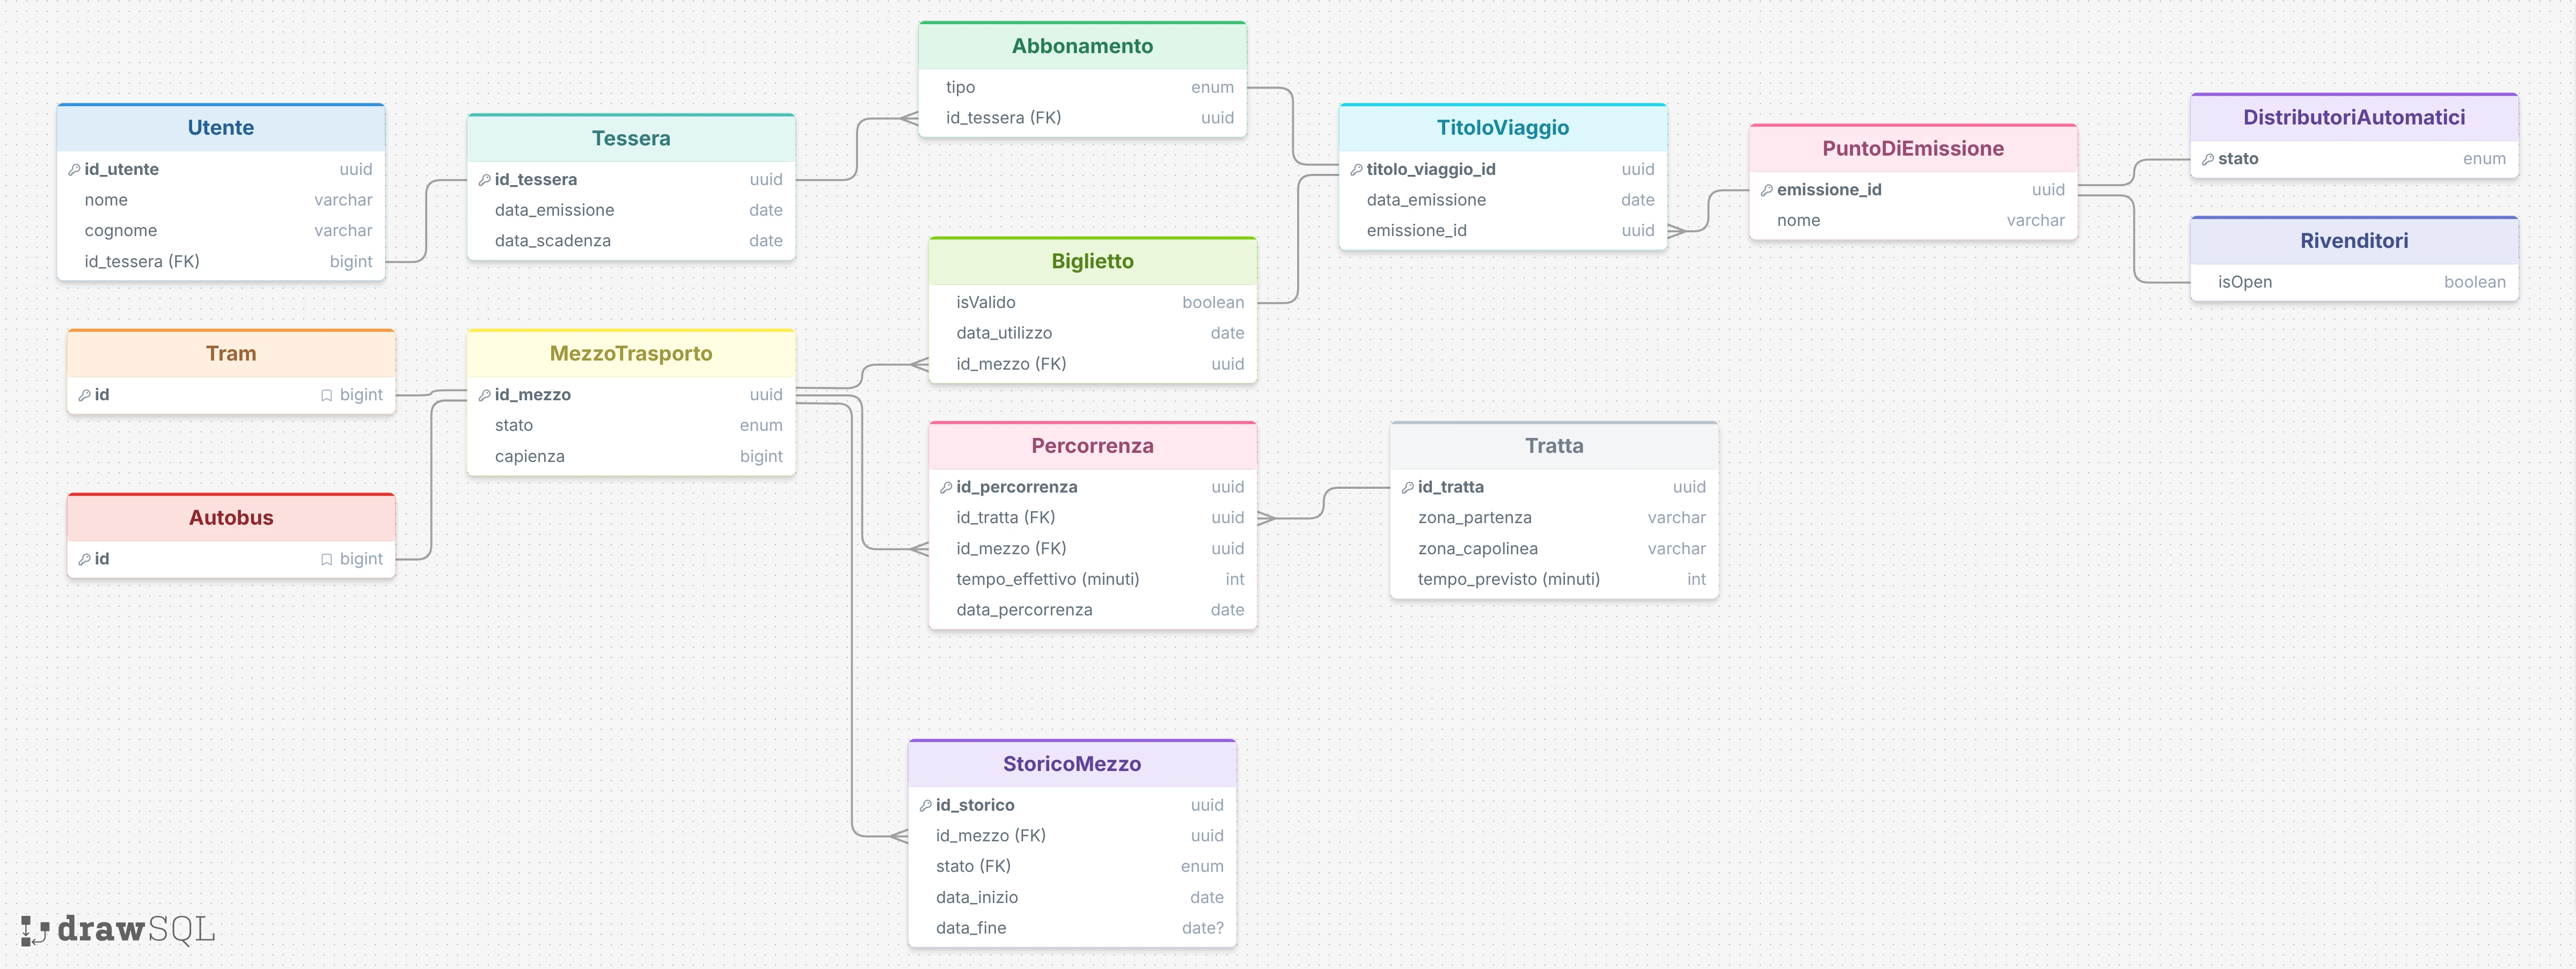
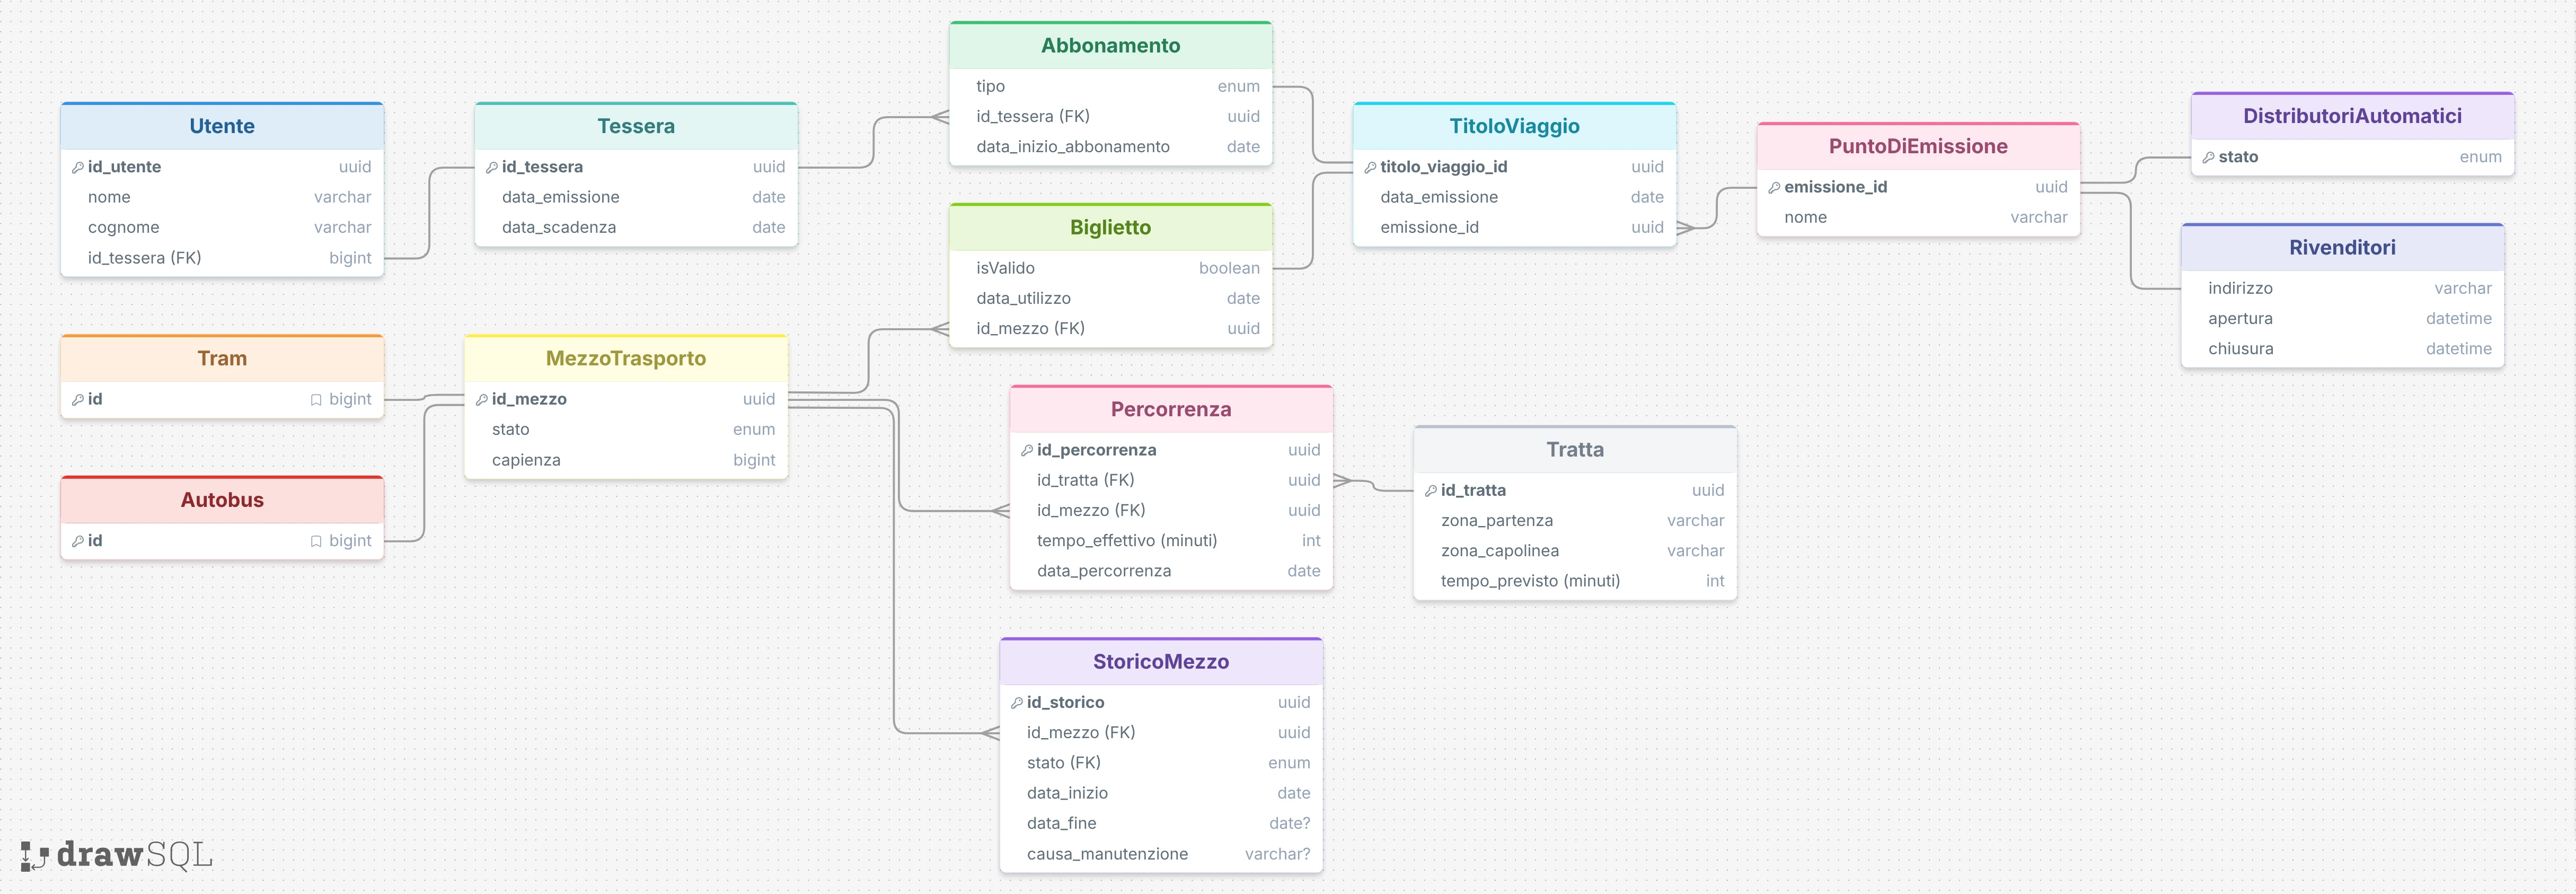
Fixed classes and add new ER

diff --git a/src/main/java/Team3/Application.java b/src/main/java/Team3/Application.java
@@ -5,11 +5,13 @@ import Team3.entities.*;
 import Team3.enums.StatoDistributore;
 import Team3.enums.StatoMezzo;
 import Team3.enums.TipoAbbonamento;
+import Team3.enums.TipoManutenzione;
 import jakarta.persistence.EntityManager;
 import jakarta.persistence.EntityManagerFactory;
 import jakarta.persistence.Persistence;
 
 import java.time.LocalDate;
+import java.time.LocalTime;
 
 public class Application {
 
@@ -53,11 +55,19 @@ public class Application {
         Distributore distr3 = new Distributore("MetroRoma_Termini", StatoDistributore.ATTIVO);
         Distributore distr4 = new Distributore("CinemaFellini_Kiosk", StatoDistributore.FUORI_SERVIZIO);
         Distributore distr5 = new Distributore("Trenitalia_SelfService", StatoDistributore.ATTIVO);
-        Rivenditore rivend1 = new Rivenditore("Tabaccheria", "tabaccheria Napoli");
-        Rivenditore rivend2 = new Rivenditore("Edicola Stazione", "Piazza Garibaldi, Roma");
-        Rivenditore rivend3 = new Rivenditore("Bar del Corso", "Corso Umberto I, Torino");
-        Rivenditore rivend4 = new Rivenditore("Tabaccheria Toledo", "Via Toledo, Firenze");
-        Rivenditore rivend5 = new Rivenditore("Ricevitoria Vomero", "Via Scarlatti, Genova");
+        Rivenditore rivend1 = new Rivenditore("Tabaccheria dei Re", "via Maurizio Piscicelli 42", LocalTime.of(8, 0),
+                LocalTime.of(19, 0));
+        Rivenditore rivend2 = new Rivenditore("Edicola Centrale", "Piazza Garibaldi 15", LocalTime.of(6, 30),
+                LocalTime.of(20, 0));
+
+        Rivenditore rivend3 = new Rivenditore("Bar dello Sport", "Corso Vittorio Emanuele 102", LocalTime.of(6, 0),
+                LocalTime.of(21, 0));
+
+        Rivenditore rivend4 = new Rivenditore("Tabacchi e Servizi", "Via Roma 74", LocalTime.of(7, 45),
+                LocalTime.of(19, 30));
+
+        Rivenditore rivend5 = new Rivenditore("Cafè della Stazione", "Viale dei Mille 9", LocalTime.of(8, 15),
+                LocalTime.of(20, 30));
 
         // OGGETTI MEZZI DI TRASPORTO NON ANCORA MANAGED
         Tram tram1 = new Tram(StatoMezzo.MANUTENZIONE, 80);
@@ -80,15 +90,15 @@ public class Application {
         Biglietto biglietto4 = new Biglietto(LocalDate.of(2026, 4, 2), rivend2, true, null, bus2);
         Biglietto biglietto5 = new Biglietto(LocalDate.of(2026, 3, 21), rivend3, true, null, tram3);
         Abbonamento abbonamento1 = new Abbonamento(LocalDate.of(2026, 6, 3), distr3, TipoAbbonamento.SETTIMANALE,
-                tessera1); // Questo sarà SCADUTA
+                tessera1, LocalDate.of(2026, 6, 15)); // Questo sarà SCADUTA
         Abbonamento abbonamento2 = new Abbonamento(LocalDate.of(2026, 5, 20), distr3, TipoAbbonamento.MENSILE,
-                tessera2); // Questo sarà SCADUTA
+                tessera2, LocalDate.of(2026, 6, 3)); // Questo sarà SCADUTA
         Abbonamento abbonamento3 = new Abbonamento(LocalDate.of(2026, 6, 23), distr3, TipoAbbonamento.SETTIMANALE,
-                tessera3); // VALIDO non scaduta
+                tessera3, LocalDate.of(2026, 7, 12)); // VALIDO non scaduta
         Abbonamento abbonamento4 = new Abbonamento(LocalDate.of(2026, 6, 20), distr3, TipoAbbonamento.MENSILE,
-                tessera4); //VALIDO non scaduto
+                tessera4, LocalDate.of(2026, 8, 20)); //VALIDO non scaduto
         Abbonamento abbonamento5 = new Abbonamento(LocalDate.of(2026, 3, 15), distr3, TipoAbbonamento.MENSILE,
-                tessera5); // SCADUTO non valido
+                tessera5, LocalDate.of(2026, 7, 22)); // SCADUTO non valido
 
         // OGGETTI TRATTA NON MANAGED
 
@@ -105,16 +115,21 @@ public class Application {
 
         // OGGETTI STORICO MEZZI NON MANAGED
 
-        StoricoMezzo storico1 = new StoricoMezzo(tram1, LocalDate.of(2026, 6, 26), null);
-        StoricoMezzo storico2 = new StoricoMezzo(bus1, LocalDate.of(2026, 5, 10), LocalDate.of(2026, 5, 11));
-        StoricoMezzo storico3 = new StoricoMezzo(tram2, LocalDate.of(2026, 6, 1), LocalDate.of(2026, 6, 2));
-        StoricoMezzo storico4 = new StoricoMezzo(bus2, LocalDate.of(2026, 6, 12), LocalDate.of(2026, 6, 13));
-        StoricoMezzo storico5 = new StoricoMezzo(tram3, LocalDate.of(2026, 6, 25), null);
-        StoricoMezzo storico6 = new StoricoMezzo(bus3, LocalDate.of(2026, 6, 26), null);
-        StoricoMezzo storico7 = new StoricoMezzo(tram4, LocalDate.of(2026, 5, 20), LocalDate.of(2026, 5, 21));
-        StoricoMezzo storico8 = new StoricoMezzo(bus4, LocalDate.of(2026, 6, 5), LocalDate.of(2026, 6, 6));
-        StoricoMezzo storico9 = new StoricoMezzo(tram5, LocalDate.of(2026, 6, 25), null);
-        StoricoMezzo storico10 = new StoricoMezzo(bus5, LocalDate.of(2026, 6, 26), null);
+        StoricoMezzo storico1 = new StoricoMezzo(tram1, LocalDate.of(2026, 6, 26), null, null);
+        StoricoMezzo storico2 = new StoricoMezzo(bus1, LocalDate.of(2026, 5, 10), LocalDate.of(2026, 5, 11),
+                TipoManutenzione.CARBURANTE);
+        StoricoMezzo storico3 = new StoricoMezzo(tram2, LocalDate.of(2026, 6, 1), LocalDate.of(2026, 6, 2),
+                TipoManutenzione.FRENI);
+        StoricoMezzo storico4 = new StoricoMezzo(bus2, LocalDate.of(2026, 6, 12), LocalDate.of(2026, 6, 13),
+                TipoManutenzione.GOMME);
+        StoricoMezzo storico5 = new StoricoMezzo(tram3, LocalDate.of(2026, 6, 25), null, null);
+        StoricoMezzo storico6 = new StoricoMezzo(bus3, LocalDate.of(2026, 6, 26), null, null);
+        StoricoMezzo storico7 = new StoricoMezzo(tram4, LocalDate.of(2026, 5, 20), LocalDate.of(2026, 5, 21),
+                TipoManutenzione.MOTORE);
+        StoricoMezzo storico8 = new StoricoMezzo(bus4, LocalDate.of(2026, 6, 5), LocalDate.of(2026, 6, 6),
+                TipoManutenzione.FRENI);
+        StoricoMezzo storico9 = new StoricoMezzo(tram5, LocalDate.of(2026, 6, 25), null, null);
+        StoricoMezzo storico10 = new StoricoMezzo(bus5, LocalDate.of(2026, 6, 26), null, null);
 
         // OGGETTI PERCORRENZA NON MANAGED
 

diff --git a/src/main/java/Team3/entities/Rivenditore.java b/src/main/java/Team3/entities/Rivenditore.java
@@ -2,13 +2,19 @@ package Team3.entities;
 
 import jakarta.persistence.*;
 
+import java.time.LocalTime;
+
 @Entity
 @Table(name = "rivenditori")
 @DiscriminatorValue("rivenditori")
 public class Rivenditore extends PuntoDiEmissione {
 
-    @Column(name = "descrizione")
-    private String descrizione;
+    @Column(name = "indirizzo")
+    private String indirizzo;
+    @Column(name = "orario_apertura")
+    private LocalTime apertura;
+    @Column(name = "orario_chiusura")
+    private LocalTime chiusura;
 
     // Costruttore vuoto
 
@@ -17,19 +23,21 @@ public class Rivenditore extends PuntoDiEmissione {
 
     // Costruttore con parametri
 
-    public Rivenditore(String nome, String descrizione) {
+    public Rivenditore(String nome, String indirizzo, LocalTime apertura, LocalTime chiusura) {
         super(nome);
-        this.descrizione = descrizione;
+        this.indirizzo = indirizzo;
+        this.apertura = apertura;
+        this.chiusura = chiusura;
     }
 
     // Getter e Setter
 
 
-    public String getDescrizione() {
-        return descrizione;
+    public String getIndirizzo() {
+        return indirizzo;
     }
 
-    public void setDescrizione(String descrizione) {
-        this.descrizione = descrizione;
+    public void setIndirizzo(String indirizzo) {
+        this.indirizzo = indirizzo;
     }
 }

diff --git a/src/main/java/Team3/entities/StoricoMezzo.java b/src/main/java/Team3/entities/StoricoMezzo.java
@@ -1,6 +1,7 @@
 package Team3.entities;
 
 import Team3.enums.StatoMezzo;
+import Team3.enums.TipoManutenzione;
 import jakarta.persistence.*;
 
 import java.time.LocalDate;
@@ -22,14 +23,19 @@ public class StoricoMezzo {
     @Column(name = "data_fine")
     private LocalDate dataFine;
 
+    @Column(name = "causa_manutenzione")
+    private TipoManutenzione causaManutenzione;
+
     protected StoricoMezzo() {
     }
 
-    public StoricoMezzo(MezzoDiTrasporto mezzoDiTrasporto, LocalDate dataInizio, LocalDate dataFine) {
+    public StoricoMezzo(MezzoDiTrasporto mezzoDiTrasporto, LocalDate dataInizio, LocalDate dataFine,
+                        TipoManutenzione causaManutenzione) {
         this.mezzoDiTrasporto = mezzoDiTrasporto;
         this.stato = mezzoDiTrasporto.getStato();
         this.dataInizio = dataInizio;
         this.dataFine = dataFine;
+        this.causaManutenzione = causaManutenzione;
     }
 
     @Override

diff --git a/src/main/java/Team3/entities/Abbonamento.java b/src/main/java/Team3/entities/Abbonamento.java
@@ -16,15 +16,18 @@ public class Abbonamento extends TitoloViaggio {
     @ManyToOne
     @JoinColumn(name = "id_tessera", nullable = false)
     private Tessera tessera;
+    @Column(name = "data_inizio_abbonamento")
+    private LocalDate dataInizioAbbonamento;
 
     protected Abbonamento() {
     }
 
     public Abbonamento(LocalDate dataEmissione, PuntoDiEmissione puntoDiEmissione, TipoAbbonamento tipo,
-                       Tessera tessera) {
+                       Tessera tessera, LocalDate dataInizioAbbonamento) {
         super(dataEmissione, puntoDiEmissione);
         this.tipo = tipo;
         this.tessera = tessera;
+        this.dataInizioAbbonamento = dataInizioAbbonamento;
     }
 
     public TipoAbbonamento getTipo() {

diff --git a/src/main/java/Team3/enums/TipoManutenzione.java b/src/main/java/Team3/enums/TipoManutenzione.java
@@ -1,0 +1,5 @@
+package Team3.enums;
+
+public enum TipoManutenzione {
+    MOTORE, CARBURANTE, GOMME, FRENI
+}

diff --git a/src/main/java/Team3/Dao/TesseraDao.java b/src/main/java/Team3/Dao/TesseraDao.java
@@ -1,0 +1,4 @@
+//package Team3.Dao;
+//
+//public class TesseraDao {
+//}